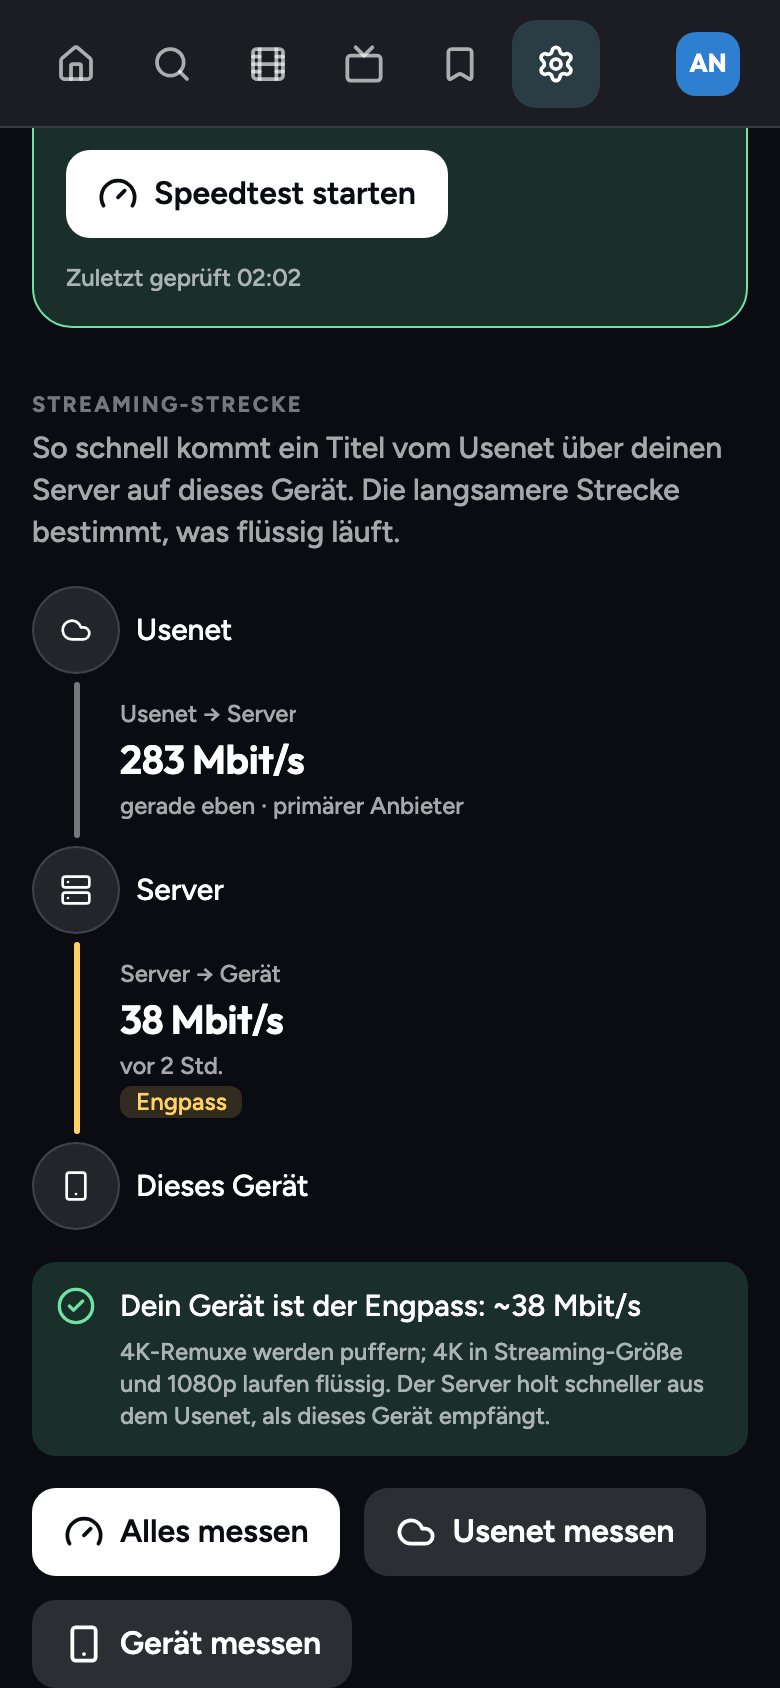
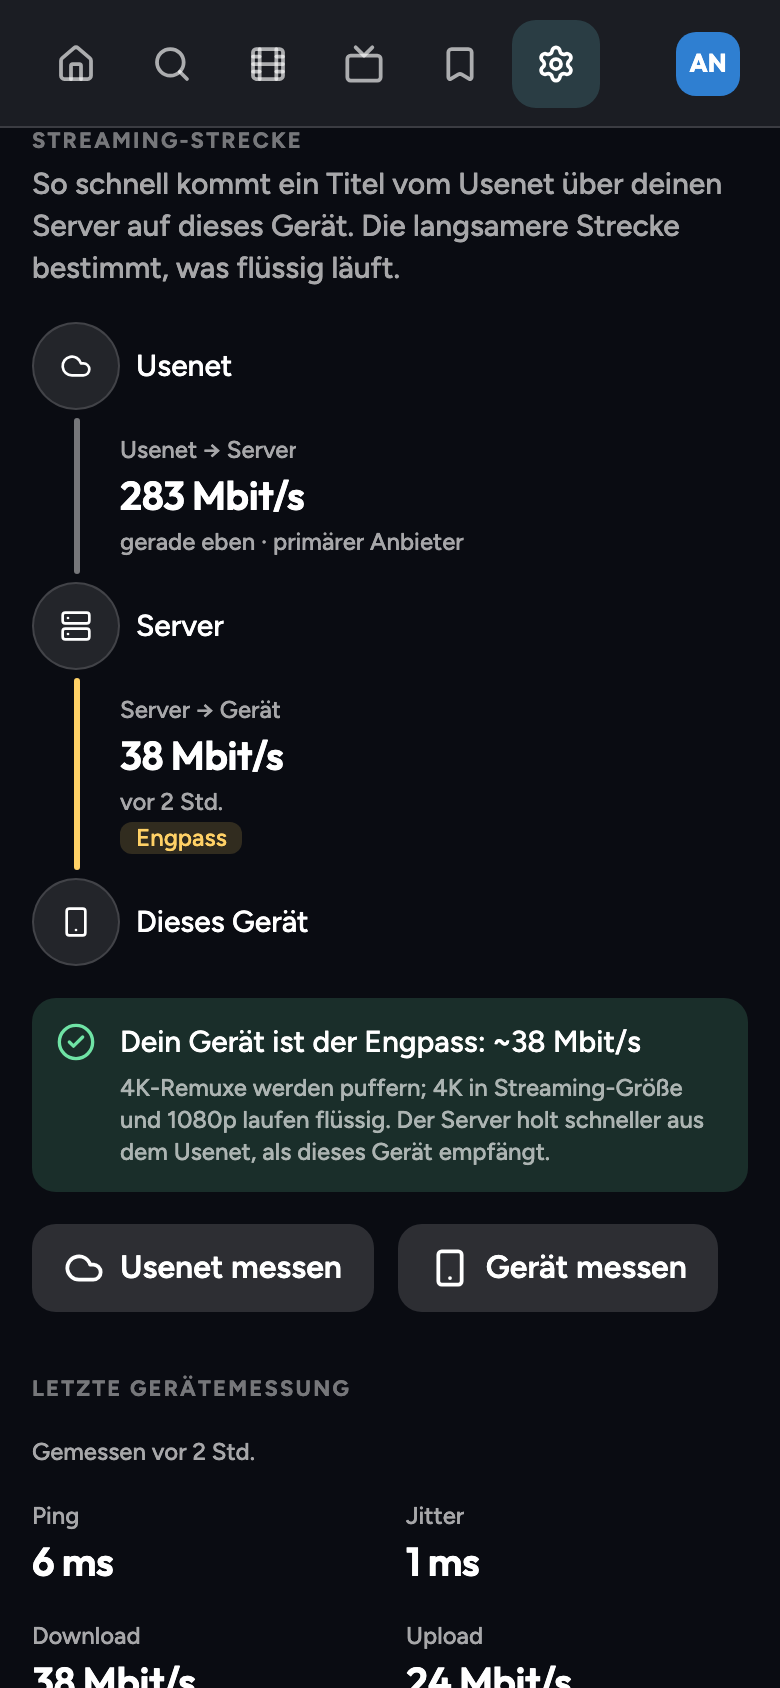
docs(client): USPEED follow-up journal and retaken screenshots

diff --git a/docs/client/journal/USPEED.md b/docs/client/journal/USPEED.md
@@ -77,3 +77,22 @@ Commits: cb83331 server, 47adb22 web, 5fa9ea3 client, da12989 devworld, + fixes/
 - The test uses at most 8 connections: a gigabit line with slow per-connection providers may read low.
 - The admin's `POST /config/providers/{id}/speedtest` still opens its own connections on top of the pool (documented).
 - Version lists are cached client-side 5 min; a new Usenet result invalidates them, a new device result changes the key.
+
+## Follow-up (coordinator): header reason per fit, one button per action
+- Sheet header reason follows the recommended version's own fit: ok → "passt zu deiner Verbindung", tight → "knapp
+  für deine Verbindung", unknown/none → no fit reason (local/affinity as before). Ranking unchanged: tight and unknown
+  rank like ok (server test `TightAndUnknown_RankLikeOk_TheScoreDecides`); jest `version-fit-reason` + sheet test.
+- Diagnostics screen: every action once. The verdict's button is "Alles messen" (same action and label as the card;
+  "Gerät messen" without the Usenet permission) and shows only while nothing was measured on this visit; then the card
+  shows it and takes TV focus (handoff + scroll). The card holds the single legs (and Cancel while the device test
+  runs); the old "Speedtest" section is now "Letzte Gerätemessung" (ping, jitter, down/up, tiers, stored result) with
+  no button. TV initial focus: the verdict's button; without a verdict the card's first button.
+- Web: the browser speed card is a detail view without Start/Run again (Cancel only while running); measuring starts
+  in the Streaming path card. The web verdict banner has no speed button.
+- Dev World: a kept world drops a leftover `devworld-nntp-backup` provider at boot (it pointed at the previous boot's
+  second mock and showed a Usenet outage).
+- Still two "Erneut prüfen" during an outage (verdict + server section; both refresh the report) — pre-existing STATUS
+  design, left as is.
+- Checks: client tsc/lint/prettier ok, jest 2238/2240 (2 known tab-guard); server BandwidthFit/UsenetSpeed/ranking
+  120/120, DevWorld 92/92; web vitest 291/291, build ok. Screenshots retaken (same names) +
+  web-tv-1920-diagnostics-whole-de.png.

diff --git a/docs/client/JOURNAL.md b/docs/client/JOURNAL.md
@@ -177,3 +177,4 @@ Append-only. One line per task outcome; details in `journal/<TASK-ID>.md`.
 - WEBSCALE · done · web viewer (/watch) on fixed CSS px (web shell scale 0.72 × browser font size, was max(0.6, width/1920): TV sizes on desktops, zoom cancelled); hero artwork follows the window, more cards on wide screens, browser zoom zooms; TV/native unchanged; first web play no longer fails on the hls.js chunk (crash guard); admin dashboard version wraps; jest 2204/2206 (2 known tab-guard) → journal/WEBSCALE.md
 - LITE2 · done · Lite mode = cheap motion, not no motion: per-effect motion policy (global reduced motion only when system animations are off), timed 1.04–1.06 focus lift with a ring that leaves at once (stale-ring cause fixed, rapid-move test), calm LiteHome (banner follows rested focus with a fade, rows fixed, smooth list scroll), new de/en texts; emulator gfxinfo old/new lite/full, screenshots + recording; jest 2216/2218 (2 known tab-guard) → journal/LITE2.md
 - USPEED · done · server ↔ Usenet speed test for viewers (pool-borrowed connections within the provider limit, few next to streams, primary → backup fallback, single flight, shared 2 min, permission allowUsenetSpeedTest default on), Streaming-Strecke card in app + web admin, server bandwidthFit per version (bitrate ×1.3 vs slower leg; local skips Usenet, transcode skips device) ranks tooHigh below fitting for Recommended/Play, app markers + measure hint; Server 1681/13 (known ffmpeg), web 291/291, jest 2231/2233 (2 known) → journal/USPEED.md
+- USPEED · follow-up · done · sheet reason follows the recommended version's fit (ok/tight/none), diagnostics actions once (verdict "Alles messen" hands over to the path card, speed section is details only; web speed card details only); jest 2238/2240 (2 known), web 291/291 → journal/USPEED.md
